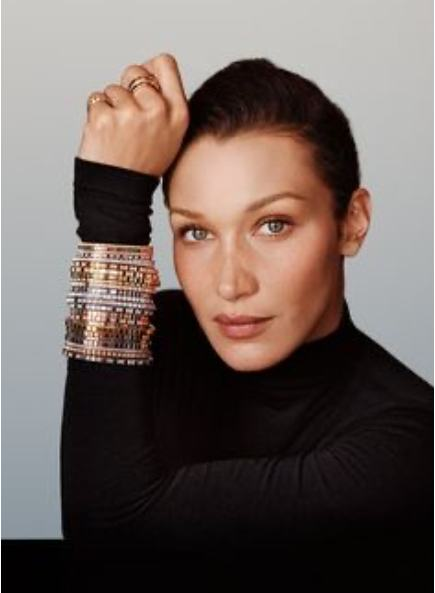
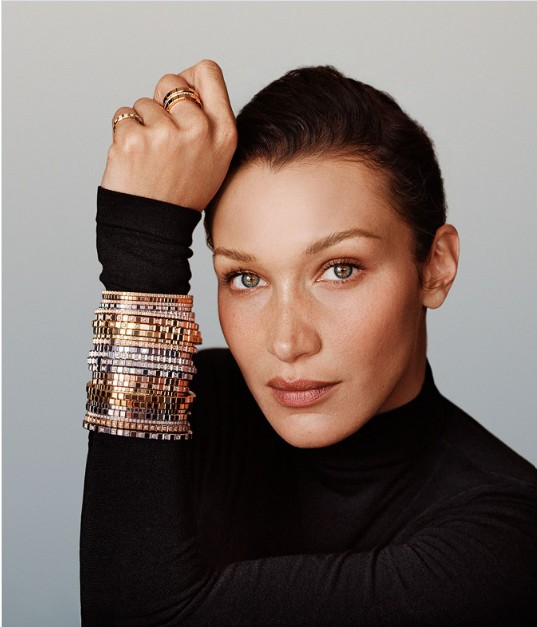
Add files via upload

diff --git a/jane-jewels-fall-creative.html b/jane-jewels-fall-creative.html
@@ -218,7 +218,7 @@
         <div class="compare">
           <span class="compare-label">Our Version</span>
           <img class="slide" src="static-1-ours.jpg" data-label="Our Version" alt="Static 1, our AI-generated version">
-          <img class="slide" src="static-1-ref.jpg" data-label="Client Reference" alt="Static 1, client reference image">
+          <img class="slide letterbox" src="static-1-ref.jpg" data-label="Client Reference" alt="Static 1, client reference image">
           <button class="compare-arrow prev" aria-label="Previous image">&#8249;</button>
           <button class="compare-arrow next" aria-label="Next image">&#8250;</button>
           <div class="compare-dots"><span class="compare-dot"></span><span class="compare-dot"></span></div>
